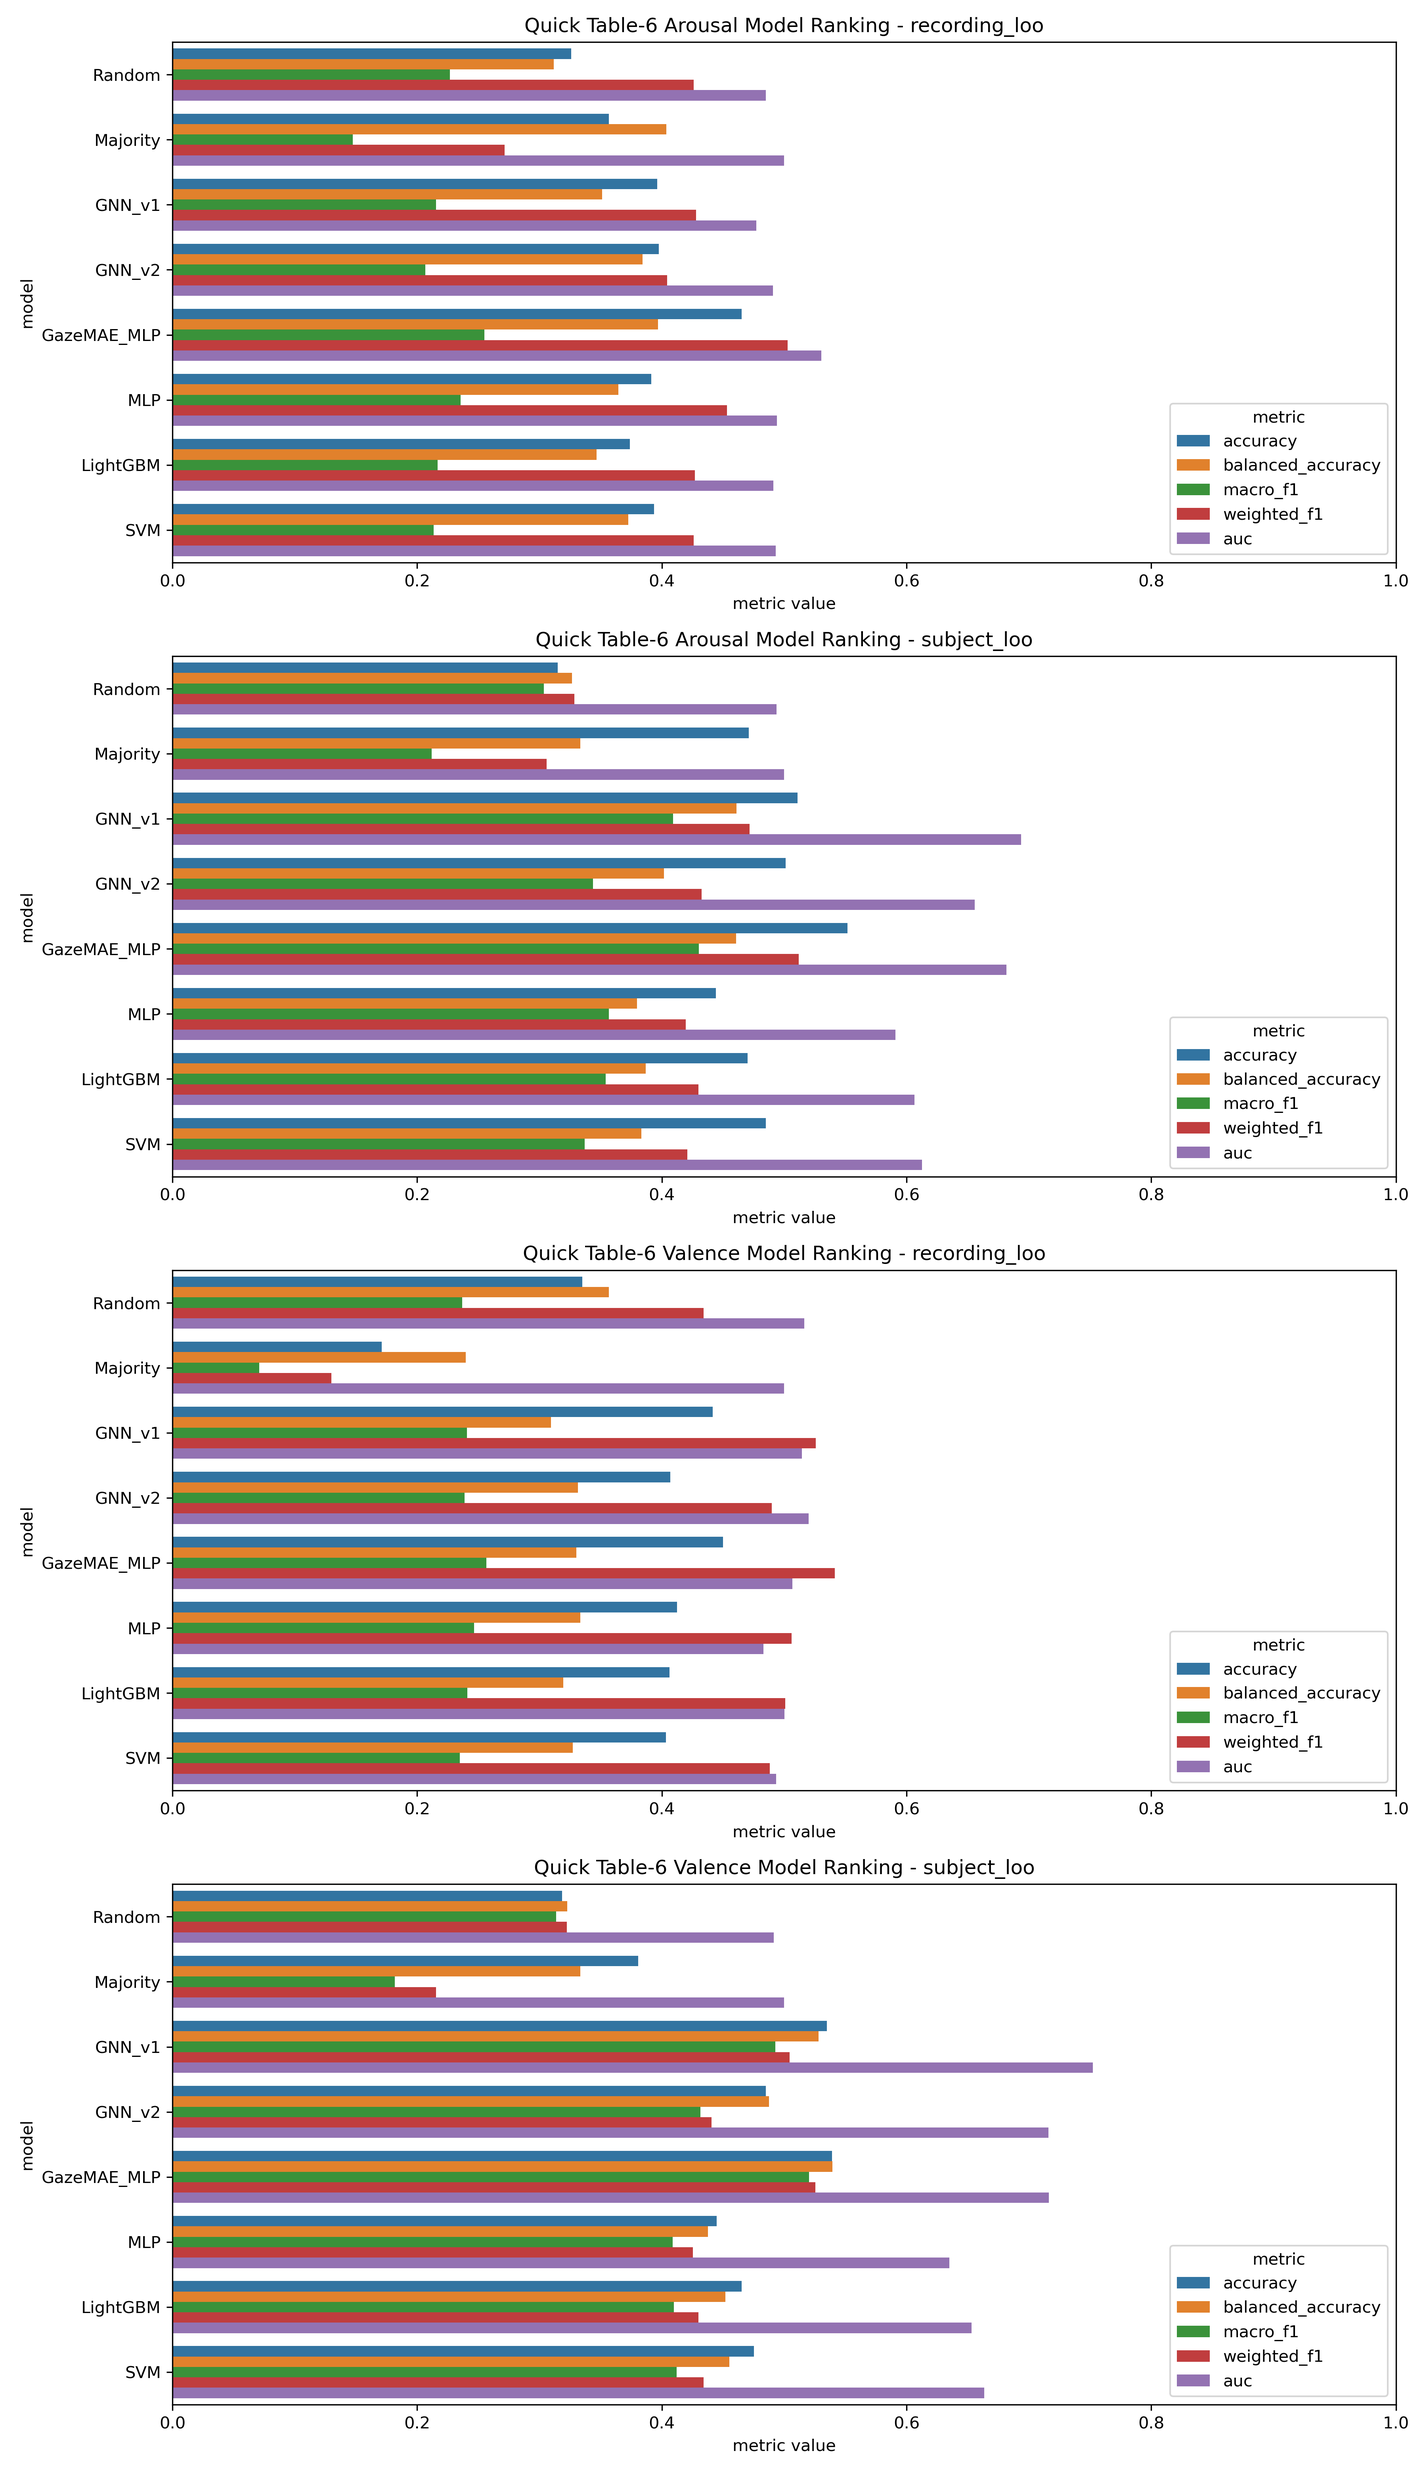
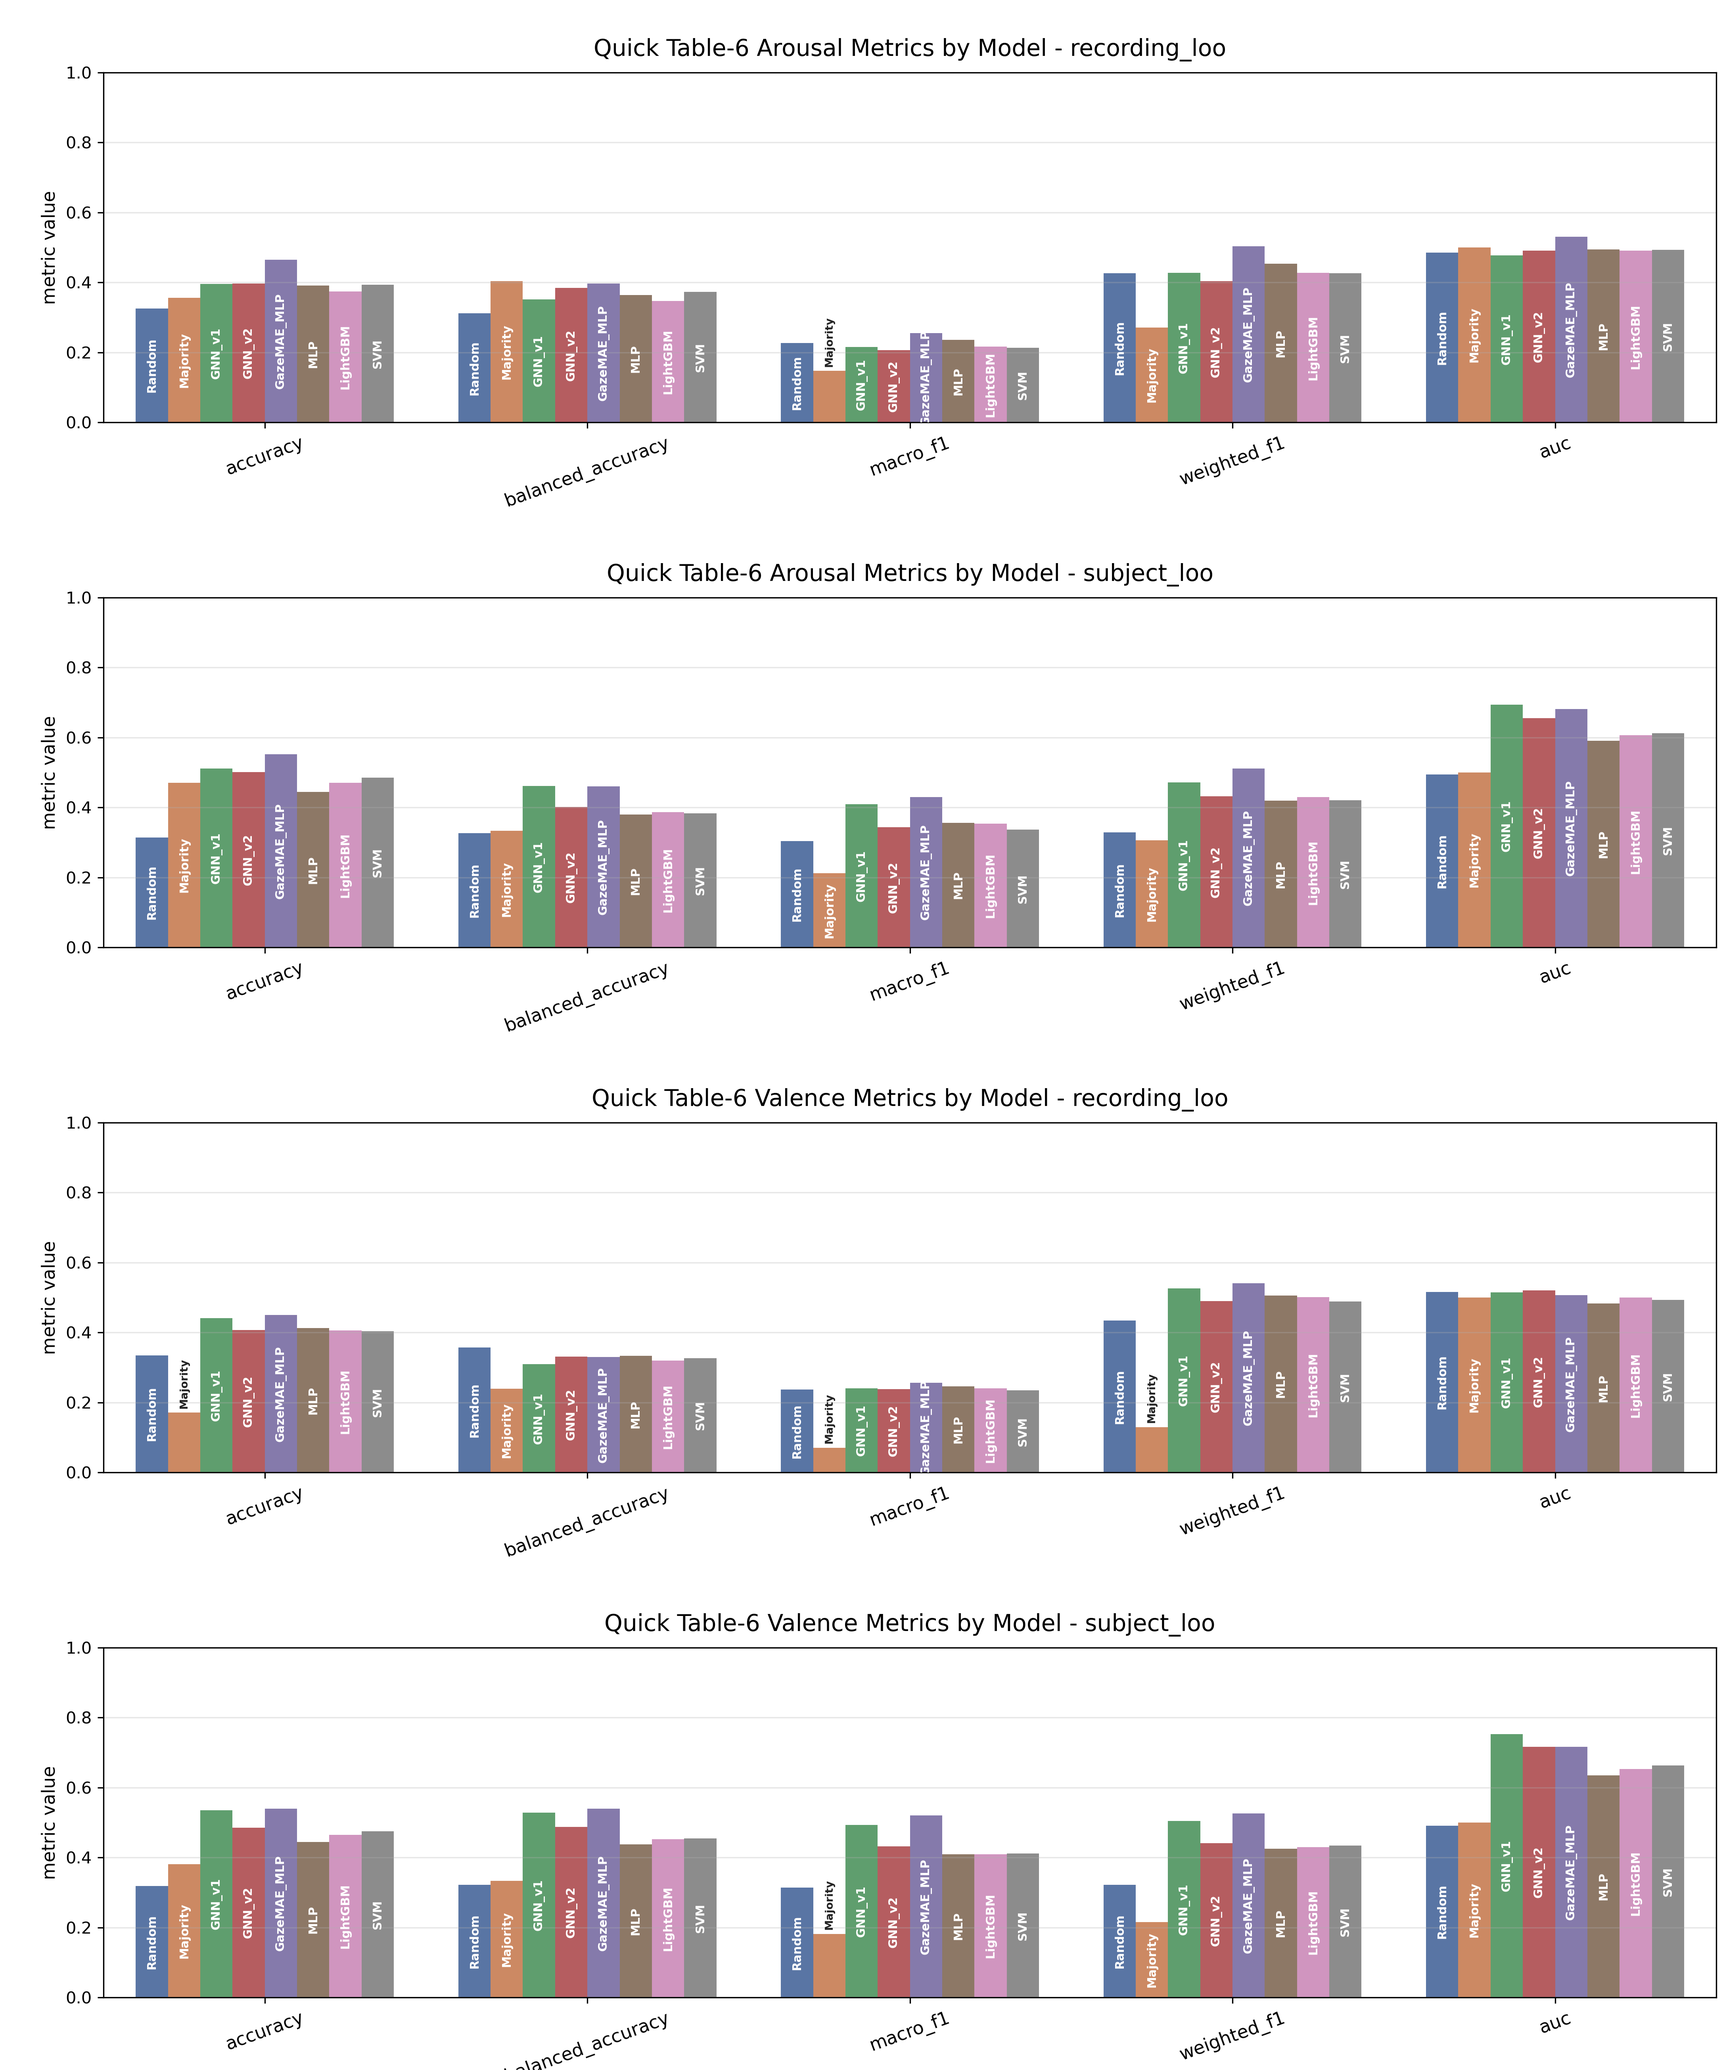
Improve quick comparison ranking plot readability

diff --git a/src/emotions/gnn_improvement_experiments/run_quick_v1_v2_comparison.py b/src/emotions/gnn_improvement_experiments/run_quick_v1_v2_comparison.py
@@ -74,6 +74,17 @@ DEFAULT_MODELS = ["Random", "Majority", "GNN_v1", "GNN_v2", "LightGBM"]
 BASELINE_MODELS = {"Random", "Majority", "Mean", "SVM", "LightGBM", "MLP", "GazeMAE_MLP"}
 PREFERRED_MODEL_ORDER = ["Random", "Majority", "GNN_v1", "GNN_v2", "GazeMAE_MLP", "MLP"]
 VALID_CV_STRATEGIES = {"subject_loo", "recording_loo", "recording_kfold", "subject_kfold"}
+MODEL_COLOR_PALETTE = {
+    "Random": "#4C72B0",
+    "Majority": "#DD8452",
+    "GNN_v1": "#55A868",
+    "GNN_v2": "#C44E52",
+    "GazeMAE_MLP": "#8172B3",
+    "MLP": "#937860",
+    "LightGBM": "#DA8BC3",
+    "SVM": "#8C8C8C",
+    "Mean": "#CCB974",
+}
 LOSS_METRIC_COLUMNS = ["train_loss", "val_loss", "test_loss"]
 LOSS_METRIC_STYLES = {
     "train_loss": {"label": "Train loss", "color": "#0072B2", "linestyle": "-"},
@@ -282,6 +293,20 @@ def _ordered_models(model_names: Iterable[str]) -> List[str]:
         unique_models,
         key=lambda name: (preferred_idx.get(name, len(preferred_idx)), str(name).lower()),
     )
+
+
+def _model_color_map(model_names: Sequence[str]) -> Dict[str, str]:
+    """Return a stable color map for model names, with fallback colors for unknown models."""
+    color_map = {
+        model_name: MODEL_COLOR_PALETTE[model_name]
+        for model_name in model_names
+        if model_name in MODEL_COLOR_PALETTE
+    }
+    missing_models = [model_name for model_name in model_names if model_name not in color_map]
+    if missing_models:
+        fallback_colors = sns.color_palette("deep", n_colors=len(missing_models)).as_hex()
+        color_map.update(dict(zip(missing_models, fallback_colors)))
+    return color_map
 
 
 def _resolve_quick_table6_experiment_ids(wrapper_cfg: Dict[str, Any]) -> List[str]:
@@ -761,7 +786,7 @@ def _rows_to_dataframe(rows: Iterable[Dict[str, Any]]) -> pd.DataFrame:
 
 
 def _save_group_model_ranking(summary: pd.DataFrame, output_dir: Path) -> Path | None:
-    """Save a command-level model ranking plot from quick summary metrics."""
+    """Save a command-level metric comparison plot from quick summary metrics."""
     metric_columns = ["accuracy", "balanced_accuracy", "macro_f1", "weighted_f1", "auc"]
     available_metrics = [metric for metric in metric_columns if metric in summary.columns]
     if summary.empty or not available_metrics:
@@ -793,14 +818,17 @@ def _save_group_model_ranking(summary: pd.DataFrame, output_dir: Path) -> Path |
     if long_df.empty:
         return None
 
+    metric_order = [metric for metric in metric_columns if metric in available_metrics]
+    palette = _model_color_map(model_order)
     plots_dir = output_dir / "plots"
     plots_dir.mkdir(parents=True, exist_ok=True)
     output_path = plots_dir / "classification_group_model_ranking.png"
 
+    n_panels = len(experiment_order) * len(strategy_order)
     fig, axes = plt.subplots(
-        len(experiment_order) * len(strategy_order),
+        n_panels,
         1,
-        figsize=(12, max(4.5, 0.65 * len(model_order)) * len(experiment_order) * len(strategy_order)),
+        figsize=(14.5, 4.35 * n_panels),
         squeeze=False,
     )
     row_idx = 0
@@ -820,28 +848,69 @@ def _save_group_model_ranking(summary: pd.DataFrame, output_dir: Path) -> Path |
             )
             sns.barplot(
                 data=strategy_df,
-                x="value",
-                y="model",
-                hue="metric",
-                order=model_order,
+                x="metric",
+                y="value",
+                hue="model",
+                order=metric_order,
+                hue_order=model_order,
+                palette=palette,
                 ax=ax,
-                orient="h",
+                width=0.80,
             )
+            legend = ax.get_legend()
+            if legend is not None:
+                legend.remove()
+
+            for container, model_name in zip(ax.containers, model_order):
+                for patch in container:
+                    height = patch.get_height()
+                    if not pd.notna(height):
+                        continue
+                    x_pos = patch.get_x() + patch.get_width() / 2.0
+                    if height >= 0.19:
+                        ax.text(
+                            x_pos,
+                            height / 2.0,
+                            model_name,
+                            ha="center",
+                            va="center",
+                            rotation=90,
+                            color="white",
+                            fontsize=7.2,
+                            fontweight="bold",
+                            clip_on=True,
+                        )
+                    else:
+                        ax.text(
+                            x_pos,
+                            height + 0.012,
+                            model_name,
+                            ha="center",
+                            va="bottom",
+                            rotation=90,
+                            color="#222222",
+                            fontsize=6.5,
+                            fontweight="bold",
+                            clip_on=True,
+                        )
             title_suffix = f" - {strategy}" if "cv_strategy" in experiment_df.columns else ""
-            ax.set_title(f"Quick {experiment_name} Model Ranking{title_suffix}")
-            ax.set_xlabel("metric value")
-            ax.set_ylabel("model")
-            ax.set_xlim(0.0, 1.0)
-            ax.legend(loc="lower right", title="metric")
+            ax.set_title(f"Quick {experiment_name} Metrics by Model{title_suffix}", fontsize=14, pad=10)
+            ax.set_xlabel("")
+            ax.set_ylabel("metric value", fontsize=11)
+            ax.set_ylim(0.0, 1.0)
+            ax.tick_params(axis="x", rotation=20, labelsize=11)
+            ax.tick_params(axis="y", labelsize=10)
+            ax.grid(axis="y", alpha=0.30)
+            ax.grid(axis="x", visible=False)
             row_idx += 1
-    fig.tight_layout()
+    fig.subplots_adjust(top=0.965, bottom=0.035, left=0.06, right=0.995, hspace=0.50)
     fig.savefig(output_path, dpi=300)
     plt.close(fig)
     return output_path
 
 
 def _save_group_model_ranking_interactive(summary: pd.DataFrame, output_dir: Path) -> Path | None:
-    """Save an interactive HTML model ranking plot with legend-toggleable metrics."""
+    """Save an interactive HTML metric comparison plot with legend-toggleable models."""
     metric_columns = ["accuracy", "balanced_accuracy", "macro_f1", "weighted_f1", "auc"]
     available_metrics = [metric for metric in metric_columns if metric in summary.columns]
     if summary.empty or not available_metrics:
@@ -883,6 +952,7 @@ def _save_group_model_ranking_interactive(summary: pd.DataFrame, output_dir: Pat
     model_order = _ordered_models(long_df["model"].astype(str).unique().tolist())
     metric_order = [metric for metric in metric_columns if metric in available_metrics]
     group_order = list(dict.fromkeys(long_df["group"].astype(str).tolist()))
+    palette = _model_color_map(model_order)
 
     plots_dir = output_dir / "plots"
     plots_dir.mkdir(parents=True, exist_ok=True)
@@ -895,27 +965,30 @@ def _save_group_model_ranking_interactive(summary: pd.DataFrame, output_dir: Pat
 
     fig = px.bar(
         long_df,
-        x="value",
-        y="model",
-        color="metric",
+        x="metric",
+        y="value",
+        color="model",
+        color_discrete_map=palette,
         facet_row="group",
-        orientation="h",
         barmode="group",
+        text="model",
         category_orders={
             "model": model_order,
             "metric": metric_order,
             "group": group_order,
         },
         hover_data=hover_data,
-        title="Quick Model Ranking",
-        height=max(420, 330 * len(group_order)),
+        title="Quick Metrics by Model",
+        height=max(420, 360 * len(group_order)),
     )
-    fig.update_xaxes(range=[0.0, 1.0], title_text="metric value")
-    fig.update_yaxes(title_text="model")
+    fig.update_xaxes(title_text="metric")
+    fig.update_yaxes(range=[0.0, 1.0], title_text="metric value")
+    fig.update_traces(textangle=-90, textposition="inside", insidetextanchor="middle")
     fig.update_layout(
-        legend_title_text="metric",
+        legend_title_text="model",
+        showlegend=False,
         bargap=0.18,
-        margin={"l": 120, "r": 40, "t": 70, "b": 60},
+        margin={"l": 70, "r": 40, "t": 70, "b": 80},
     )
     fig.write_html(output_path, include_plotlyjs="cdn", full_html=True)
     return output_path

diff --git a/tests/emotions/test_quick_v1_v2_comparison.py b/tests/emotions/test_quick_v1_v2_comparison.py
@@ -6,6 +6,7 @@ from pathlib import Path
 import pandas as pd
 import numpy as np
 
+from emotions.gnn_improvement_experiments import run_quick_v1_v2_comparison as quick_comparison
 from emotions.gnn_improvement_experiments.run_quick_v1_v2_comparison import (
     AROUSAL_EXPERIMENT_ID,
     build_fixed_overrides,
@@ -164,7 +165,7 @@ def test_fixed_overrides_can_explicitly_enable_torch_compile() -> None:
     assert overrides["global_overrides"]["gnn"]["training"]["use_torch_compile"] is True
 
 
-def test_group_model_ranking_plot_is_written(tmp_path: Path) -> None:
+def test_group_model_ranking_plot_is_written(tmp_path: Path, monkeypatch) -> None:
     summary = pd.DataFrame(
         [
             {
@@ -215,10 +216,32 @@ def test_group_model_ranking_plot_is_written(tmp_path: Path) -> None:
         ]
     )
 
+    barplot_calls = []
+    original_barplot = quick_comparison.sns.barplot
+
+    def recording_barplot(*args, **kwargs):
+        barplot_calls.append(kwargs.copy())
+        return original_barplot(*args, **kwargs)
+
+    monkeypatch.setattr(quick_comparison.sns, "barplot", recording_barplot)
+
     output_path = _save_group_model_ranking(summary=summary, output_dir=tmp_path)
 
     assert output_path == tmp_path / "plots" / "classification_group_model_ranking.png"
     assert output_path.exists()
+    assert barplot_calls
+    assert barplot_calls[0]["x"] == "metric"
+    assert barplot_calls[0]["y"] == "value"
+    assert barplot_calls[0]["hue"] == "model"
+    assert barplot_calls[0]["order"] == ["accuracy", "balanced_accuracy", "macro_f1", "weighted_f1", "auc"]
+    assert barplot_calls[0]["hue_order"] == ["Random", "Majority", "GNN_v1", "GNN_v2", "LightGBM"]
+    assert barplot_calls[0]["palette"] == {
+        "Random": quick_comparison.MODEL_COLOR_PALETTE["Random"],
+        "Majority": quick_comparison.MODEL_COLOR_PALETTE["Majority"],
+        "GNN_v1": quick_comparison.MODEL_COLOR_PALETTE["GNN_v1"],
+        "GNN_v2": quick_comparison.MODEL_COLOR_PALETTE["GNN_v2"],
+        "LightGBM": quick_comparison.MODEL_COLOR_PALETTE["LightGBM"],
+    }
 
 
 def test_training_history_outputs_include_loss_and_validation_plots(tmp_path: Path) -> None:

diff --git a/MEMORY.md b/MEMORY.md
@@ -94,6 +94,7 @@ recent work, plans, or decisions.
 - Quick comparison supports multiple comma-separated CV strategies, class-balance diagnostics, multiclass training-history aggregation, task selection through `quick_comparison.table6_tasks`, and held-out test-loss plots.
 - Quick comparison training-progress loss plots include an aggregated split-panel plot, an aggregated combined train/validation/test plot, and per-fold combined loss plots under `plots/losses/`; aggregated loss plots use darker `mean ± std` bands and lighter min-max bands.
 - Quick comparison `test_loss_by_model.png` excludes `Random` and `Majority` because their log-loss values dominate the scale and obscure trained-model differences.
+- Quick comparison `classification_group_model_ranking.png` now uses grouped vertical bars with metrics on the x-axis, metric values on the y-axis, model names printed inside bars, no overlapping legend, and centralized model color constants in the quick runner.
 - Multiclass `MLP` baseline now uses the explicit fold validation split via a PyTorch MLP implementation, logs `train_loss` and `val_loss`, and early-stops on validation loss. This avoids sklearn MLP's internal random validation split and makes MLP loss plots comparable with GNN and `GazeMAE_MLP`.
 - `GazeMAE_MLP` is available in the quick comparison runner as a baseline model alias (`gazemae`, `gazemae_mlp`, `GazeMAE_MLP`). It uses the same suite snapshots, CV splits, Table-6 mappings, summaries, label-distribution tables, loss plots, and confusion-matrix plotting as other multiclass baselines. The Table-6 low/high wrapper lives at `src/emotions/gnn_improvement_experiments/configs/quick_v1_v2/run_hci_experiment_suite_table6_low_high.yaml`.
 - GazeMAE embedding cache reuse is intentionally stable across timestamped quick/suite runs: when a suite snapshot manifest is available, the cache key uses `snapshot_hash`/`snapshot_cache_key` rather than the generated snapshot CSV path or modification time. The key also includes GazeMAE checkpoint file hashes and preprocessing settings, so embeddings are reused only for identical data/model/preprocessing identities. This was verified with a repeated small quick-comparison run.
